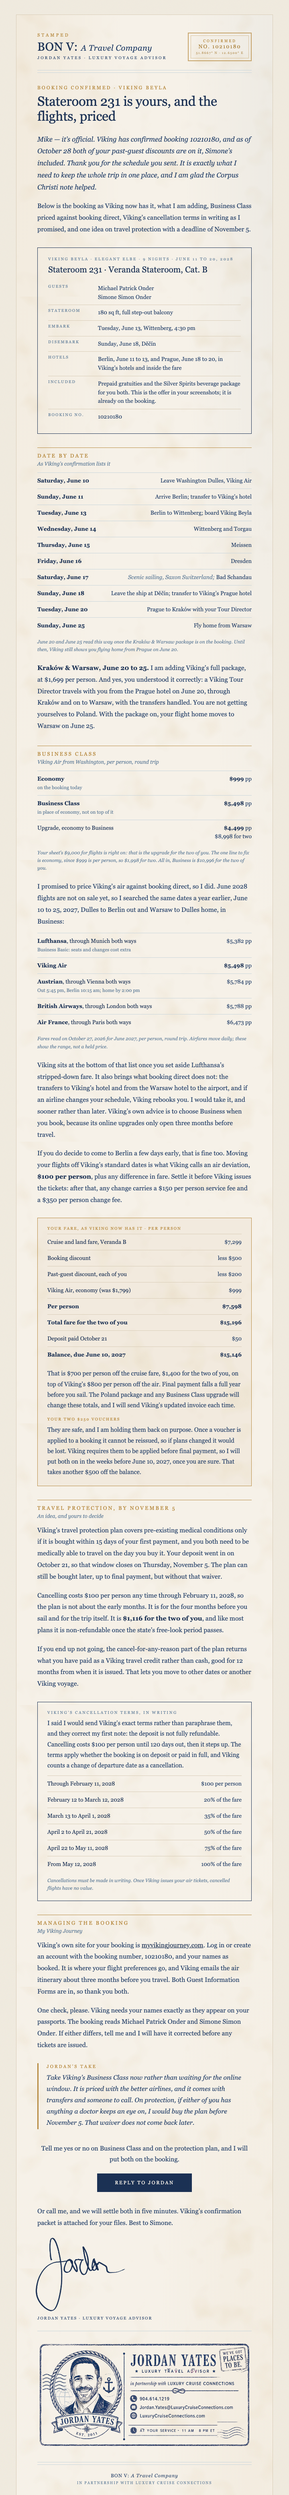
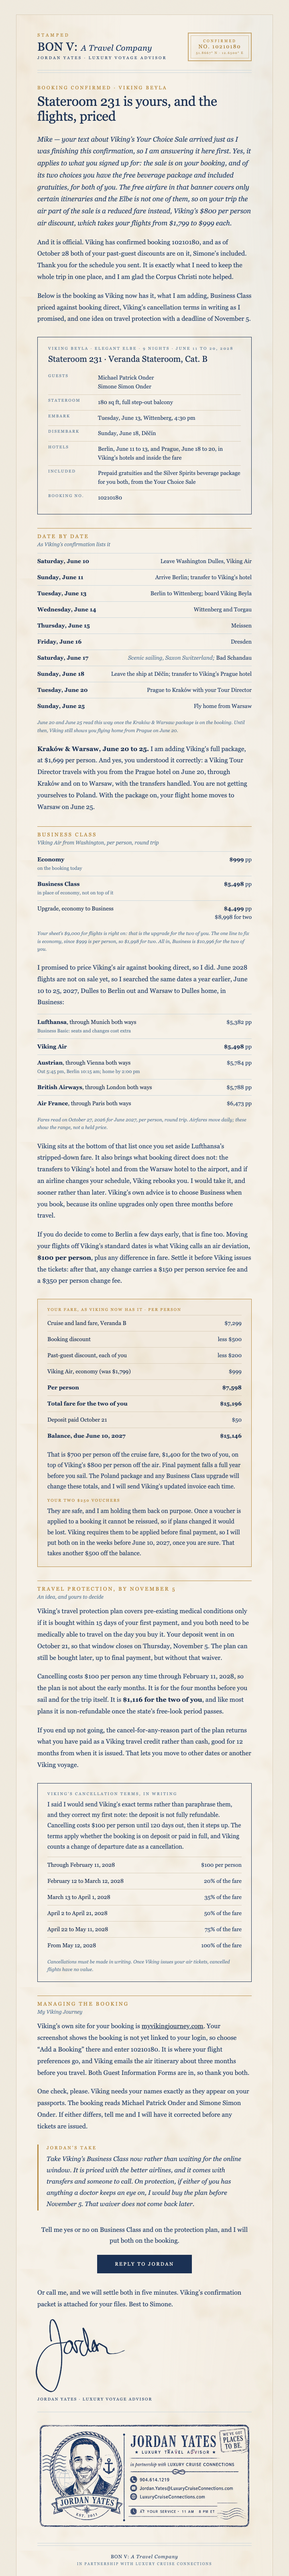
Onder confirmation: answer Mike's Your Choice Sale question up top

Changed region(s): [[0.1222, 0.0, 0.8861, 0.9961]]

diff --git a/emails/onder-viking-beyla-confirmation.html b/emails/onder-viking-beyla-confirmation.html
@@ -29,7 +29,7 @@
 </style>
 </head>
 <body class="paper">
-<div style="display:none;max-height:0;overflow:hidden;opacity:0">It is official: Viking Beyla, stateroom 231, June 11, 2028. Both past-guest discounts are on, and final payment is June 10, 2027.</div>
+<div style="display:none;max-height:0;overflow:hidden;opacity:0">Yes, the Your Choice Sale is on your booking. Stateroom 231 is confirmed, both past-guest discounts are on, and final payment is June 10, 2027.</div>
 <div style="display:none;max-height:0;overflow:hidden;opacity:0">&zwnj;&nbsp;&zwnj;&nbsp;&zwnj;&nbsp;&zwnj;&nbsp;&zwnj;&nbsp;&zwnj;&nbsp;&zwnj;&nbsp;&zwnj;&nbsp;&zwnj;&nbsp;&zwnj;&nbsp;&zwnj;&nbsp;&zwnj;&nbsp;</div>
 
 <table role="presentation" width="100%" cellpadding="0" cellspacing="0" class="paper" style="background-color:#f1ebdf">
@@ -65,7 +65,8 @@
 <!-- THE LETTER -->
 
 <tr><td class="pad" style="padding:24px 52px 0 52px">
-  <p style="margin:0 0 18px 0;font-family:Georgia,'Times New Roman',Times,serif;font-size:17px;line-height:1.75;color:#223e67;font-style:italic">Mike — it’s official. Viking has confirmed booking 10210180, and as of October 28 both of your past-guest discounts are on it, Simone’s included. Thank you for the schedule you sent. It is exactly what I need to keep the whole trip in one place, and I am glad the Corpus Christi note helped.</p>
+  <p style="margin:0 0 18px 0;font-family:Georgia,'Times New Roman',Times,serif;font-size:17px;line-height:1.75;color:#223e67;font-style:italic">Mike — your text about Viking’s Your Choice Sale arrived just as I was finishing this confirmation, so I am answering it here first. Yes, it applies to what you signed up for: the sale is on your booking, and of its two choices you have the free beverage package and included gratuities, for both of you. The free airfare in that banner covers only certain itineraries and the Elbe is not one of them, so on your trip the air part of the sale is a reduced fare instead, Viking’s $800 per person air discount, which takes your flights from $1,799 to $999 each.</p>
+  <p style="margin:0 0 18px 0;font-family:Georgia,'Times New Roman',Times,serif;font-size:16px;line-height:1.8;color:#223e67">And it is official. Viking has confirmed booking 10210180, and as of October 28 both of your past-guest discounts are on it, Simone’s included. Thank you for the schedule you sent. It is exactly what I need to keep the whole trip in one place, and I am glad the Corpus Christi note helped.</p>
   <p style="margin:0;font-family:Georgia,'Times New Roman',Times,serif;font-size:16px;line-height:1.8;color:#223e67">Below is the booking as Viking now has it, what I am adding, Business Class priced against booking direct, Viking’s cancellation terms in writing as I promised, and one idea on travel protection with a deadline of November 5.</p>
 </td></tr>
 
@@ -76,7 +77,7 @@
 <tr><td class="cardpad" style="padding:22px 26px">
 <p style="margin:0;font-family:Georgia,'Times New Roman',Times,serif;font-size:10px;letter-spacing:2.5px;text-transform:uppercase;color:#607d99">Viking Beyla · Elegant Elbe · 9 nights · June 11 to 20, 2028</p>
 <p style="margin:8px 0 14px 0;font-family:Georgia,'Times New Roman',Times,serif;font-size:21px;line-height:1.3;color:#1b3154">Stateroom 231 · Veranda Stateroom, Cat. B</p>
-<table role="presentation" width="100%" cellpadding="0" cellspacing="0"><tr><td style="padding:8px 12px 8px 0;border-bottom:1px solid #d9cdb8;font-family:Georgia,'Times New Roman',Times,serif;font-size:10px;letter-spacing:2px;text-transform:uppercase;color:#607d99;vertical-align:top;width:112px">Guests</td><td style="padding:8px 0;border-bottom:1px solid #d9cdb8;font-family:Georgia,'Times New Roman',Times,serif;font-size:14px;line-height:1.55;color:#223e67;vertical-align:top">Michael Patrick Onder<br>Simone Simon Onder</td></tr><tr><td style="padding:8px 12px 8px 0;border-bottom:1px solid #d9cdb8;font-family:Georgia,'Times New Roman',Times,serif;font-size:10px;letter-spacing:2px;text-transform:uppercase;color:#607d99;vertical-align:top;width:112px">Stateroom</td><td style="padding:8px 0;border-bottom:1px solid #d9cdb8;font-family:Georgia,'Times New Roman',Times,serif;font-size:14px;line-height:1.55;color:#223e67;vertical-align:top">180 sq ft, full step-out balcony</td></tr><tr><td style="padding:8px 12px 8px 0;border-bottom:1px solid #d9cdb8;font-family:Georgia,'Times New Roman',Times,serif;font-size:10px;letter-spacing:2px;text-transform:uppercase;color:#607d99;vertical-align:top;width:112px">Embark</td><td style="padding:8px 0;border-bottom:1px solid #d9cdb8;font-family:Georgia,'Times New Roman',Times,serif;font-size:14px;line-height:1.55;color:#223e67;vertical-align:top">Tuesday, June 13, Wittenberg, 4:30 pm</td></tr><tr><td style="padding:8px 12px 8px 0;border-bottom:1px solid #d9cdb8;font-family:Georgia,'Times New Roman',Times,serif;font-size:10px;letter-spacing:2px;text-transform:uppercase;color:#607d99;vertical-align:top;width:112px">Disembark</td><td style="padding:8px 0;border-bottom:1px solid #d9cdb8;font-family:Georgia,'Times New Roman',Times,serif;font-size:14px;line-height:1.55;color:#223e67;vertical-align:top">Sunday, June 18, Děčín</td></tr><tr><td style="padding:8px 12px 8px 0;border-bottom:1px solid #d9cdb8;font-family:Georgia,'Times New Roman',Times,serif;font-size:10px;letter-spacing:2px;text-transform:uppercase;color:#607d99;vertical-align:top;width:112px">Hotels</td><td style="padding:8px 0;border-bottom:1px solid #d9cdb8;font-family:Georgia,'Times New Roman',Times,serif;font-size:14px;line-height:1.55;color:#223e67;vertical-align:top">Berlin, June 11 to 13, and Prague, June 18 to 20, in Viking’s hotels and inside the fare</td></tr><tr><td style="padding:8px 12px 8px 0;border-bottom:1px solid #d9cdb8;font-family:Georgia,'Times New Roman',Times,serif;font-size:10px;letter-spacing:2px;text-transform:uppercase;color:#607d99;vertical-align:top;width:112px">Included</td><td style="padding:8px 0;border-bottom:1px solid #d9cdb8;font-family:Georgia,'Times New Roman',Times,serif;font-size:14px;line-height:1.55;color:#223e67;vertical-align:top">Prepaid gratuities and the Silver Spirits beverage package for you both. This is the offer in your screenshots; it is already on the booking.</td></tr><tr><td style="padding:8px 12px 8px 0;font-family:Georgia,'Times New Roman',Times,serif;font-size:10px;letter-spacing:2px;text-transform:uppercase;color:#607d99;vertical-align:top;width:112px">Booking No.</td><td style="padding:8px 0;font-family:Georgia,'Times New Roman',Times,serif;font-size:14px;line-height:1.55;color:#223e67;vertical-align:top">10210180</td></tr></table>
+<table role="presentation" width="100%" cellpadding="0" cellspacing="0"><tr><td style="padding:8px 12px 8px 0;border-bottom:1px solid #d9cdb8;font-family:Georgia,'Times New Roman',Times,serif;font-size:10px;letter-spacing:2px;text-transform:uppercase;color:#607d99;vertical-align:top;width:112px">Guests</td><td style="padding:8px 0;border-bottom:1px solid #d9cdb8;font-family:Georgia,'Times New Roman',Times,serif;font-size:14px;line-height:1.55;color:#223e67;vertical-align:top">Michael Patrick Onder<br>Simone Simon Onder</td></tr><tr><td style="padding:8px 12px 8px 0;border-bottom:1px solid #d9cdb8;font-family:Georgia,'Times New Roman',Times,serif;font-size:10px;letter-spacing:2px;text-transform:uppercase;color:#607d99;vertical-align:top;width:112px">Stateroom</td><td style="padding:8px 0;border-bottom:1px solid #d9cdb8;font-family:Georgia,'Times New Roman',Times,serif;font-size:14px;line-height:1.55;color:#223e67;vertical-align:top">180 sq ft, full step-out balcony</td></tr><tr><td style="padding:8px 12px 8px 0;border-bottom:1px solid #d9cdb8;font-family:Georgia,'Times New Roman',Times,serif;font-size:10px;letter-spacing:2px;text-transform:uppercase;color:#607d99;vertical-align:top;width:112px">Embark</td><td style="padding:8px 0;border-bottom:1px solid #d9cdb8;font-family:Georgia,'Times New Roman',Times,serif;font-size:14px;line-height:1.55;color:#223e67;vertical-align:top">Tuesday, June 13, Wittenberg, 4:30 pm</td></tr><tr><td style="padding:8px 12px 8px 0;border-bottom:1px solid #d9cdb8;font-family:Georgia,'Times New Roman',Times,serif;font-size:10px;letter-spacing:2px;text-transform:uppercase;color:#607d99;vertical-align:top;width:112px">Disembark</td><td style="padding:8px 0;border-bottom:1px solid #d9cdb8;font-family:Georgia,'Times New Roman',Times,serif;font-size:14px;line-height:1.55;color:#223e67;vertical-align:top">Sunday, June 18, Děčín</td></tr><tr><td style="padding:8px 12px 8px 0;border-bottom:1px solid #d9cdb8;font-family:Georgia,'Times New Roman',Times,serif;font-size:10px;letter-spacing:2px;text-transform:uppercase;color:#607d99;vertical-align:top;width:112px">Hotels</td><td style="padding:8px 0;border-bottom:1px solid #d9cdb8;font-family:Georgia,'Times New Roman',Times,serif;font-size:14px;line-height:1.55;color:#223e67;vertical-align:top">Berlin, June 11 to 13, and Prague, June 18 to 20, in Viking’s hotels and inside the fare</td></tr><tr><td style="padding:8px 12px 8px 0;border-bottom:1px solid #d9cdb8;font-family:Georgia,'Times New Roman',Times,serif;font-size:10px;letter-spacing:2px;text-transform:uppercase;color:#607d99;vertical-align:top;width:112px">Included</td><td style="padding:8px 0;border-bottom:1px solid #d9cdb8;font-family:Georgia,'Times New Roman',Times,serif;font-size:14px;line-height:1.55;color:#223e67;vertical-align:top">Prepaid gratuities and the Silver Spirits beverage package for you both, from the Your Choice Sale</td></tr><tr><td style="padding:8px 12px 8px 0;font-family:Georgia,'Times New Roman',Times,serif;font-size:10px;letter-spacing:2px;text-transform:uppercase;color:#607d99;vertical-align:top;width:112px">Booking No.</td><td style="padding:8px 0;font-family:Georgia,'Times New Roman',Times,serif;font-size:14px;line-height:1.55;color:#223e67;vertical-align:top">10210180</td></tr></table>
 </td></tr></table>
 </td></tr>
 
@@ -142,7 +143,7 @@
 
 <tr><td class="pad" style="padding:34px 52px 0 52px"><div style="border-top:1px solid #b78b42;padding-top:12px"><p style="margin:0;font-family:Georgia,'Times New Roman',Times,serif;font-size:13px;letter-spacing:3px;text-transform:uppercase;color:#b78b42">Managing the Booking</p><p style="margin:5px 0 0 0;font-family:Georgia,'Times New Roman',Times,serif;font-size:13px;font-style:italic;color:#607d99">My Viking Journey</p></div></td></tr>
 <tr><td class="pad" style="padding:14px 52px 0 52px">
-<p style="margin:0px 0 0 0;font-family:Georgia,'Times New Roman',Times,serif;font-size:16px;line-height:1.8;color:#223e67">Viking’s own site for your booking is <a href="https://www.myvikingjourney.com" style="color:#1b3154">myvikingjourney.com</a>. Log in or create an account with the booking number, 10210180, and your names as booked. It is where your flight preferences go, and Viking emails the air itinerary about three months before you travel. Both Guest Information Forms are in, so thank you both.</p>
+<p style="margin:0px 0 0 0;font-family:Georgia,'Times New Roman',Times,serif;font-size:16px;line-height:1.8;color:#223e67">Viking’s own site for your booking is <a href="https://www.myvikingjourney.com" style="color:#1b3154">myvikingjourney.com</a>. Your screenshot shows the booking is not yet linked to your login, so choose “Add a Booking” there and enter 10210180. It is where your flight preferences go, and Viking emails the air itinerary about three months before you travel. Both Guest Information Forms are in, so thank you both.</p>
 <p style="margin:18px 0 0 0;font-family:Georgia,'Times New Roman',Times,serif;font-size:16px;line-height:1.8;color:#223e67">One check, please. Viking needs your names exactly as they appear on your passports. The booking reads Michael Patrick Onder and Simone Simon Onder. If either differs, tell me and I will have it corrected before any tickets are issued.</p>
 </td></tr>
 

diff --git a/emails/README.md b/emails/README.md
@@ -220,6 +220,7 @@ Caveat carried in the letter's fine print: Celebrity's figures include taxes and
 - **Cancellation (from the statement):** $100 pp through 11-Feb-28; 20% 12-Feb–12-Mar-28; 35% to 1-Apr; 50% to 21-Apr; 75% to 11-May; 100% from 12-May-28. Date changes count as cancellation. The Oct 21 quote wrongly said the deposit was fully refundable until final payment; the confirmation corrects it in writing.
 - **FCVs (Viking emails 30-Sep-26):** FCV-2880577 (Michael) and FCV-2880578 (Simone), $250 each, issued 30-Sep-26, expire 30-Sep-27 (book-by date), must be redeemed BEFORE FINAL PAYMENT, cannot be reissued once redeemed, voided if a Viking TPP claim is filed. For this booking the real deadline is before 10-Jun-27, not 30-Sep-27. Held back on Jordan's call.
 - **Also carried:** Viking Business $5,498 pp (upgrade $4,499 pp = Mike's $9,000 line), deviation $100 pp framed as the early-Berlin fee, Kayak comparison 27-Oct-26, Trip Mate $1,116 for two with waiver deadline Thu 5-Nov-26, post-ticketing change fees ($150 Air Plus + $350 min pp, from the statement).
+- **Your Choice Sale (SBT26), Mike texted 2026-10-28:** answered in the opening. On the booking as BVT26 with the beverage package + gratuities choice (not the up-to-$1,000 shipboard credit). Viking's offer footnote limits FREE airfare to select departures of Grand European Tour, Lyon Provence & the Rhineland, European Sojourn, Capitals of Eastern Europe, London Paris & D-Day, Pharaohs & Pyramids, Magnificent Mekong, Christmastime in Paris & Normandy (plus ocean/expedition products); Elegant Elbe is not listed, so its air is the reduced $999 ($800 pp discount). Mike's viking.com login shows no booking: told him to use "Add a Booking" with 10210180.
 - **Confirm before send:** $5,498 is the full Business fare and priced home from Warsaw; what the $100 deviation applies to; $1,116 is for both. Michael's final-documents address reads "APT T3", Simone's "APT T03".
 
 ### Onder · Elegant Elbe 2028 · Berlin to Prague
